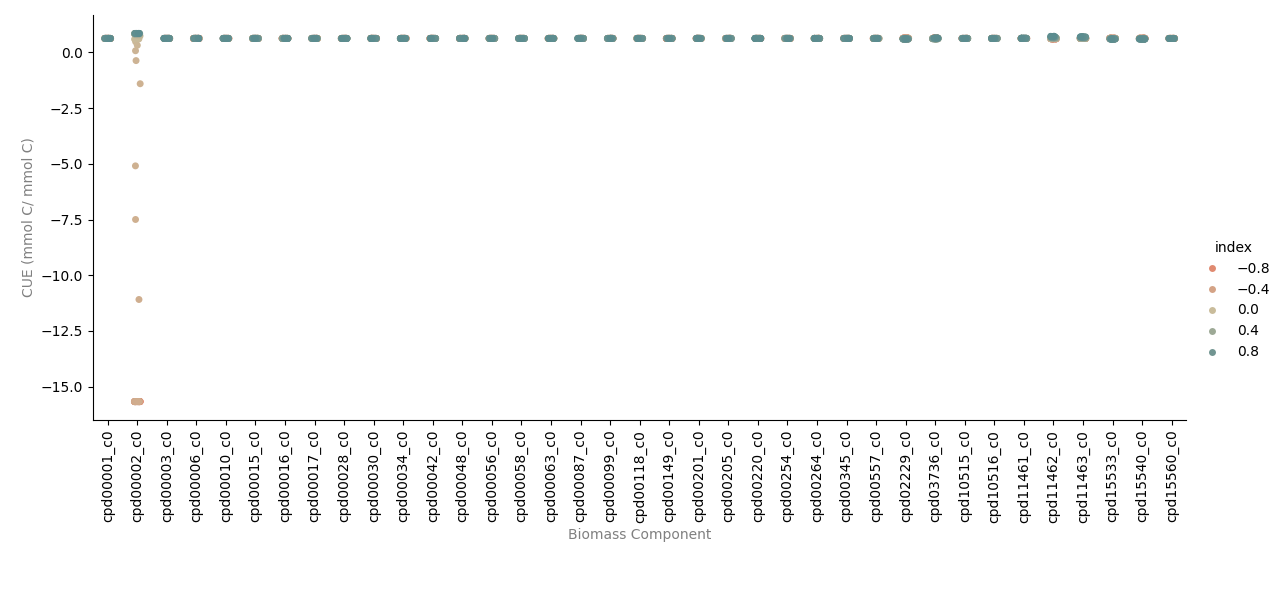
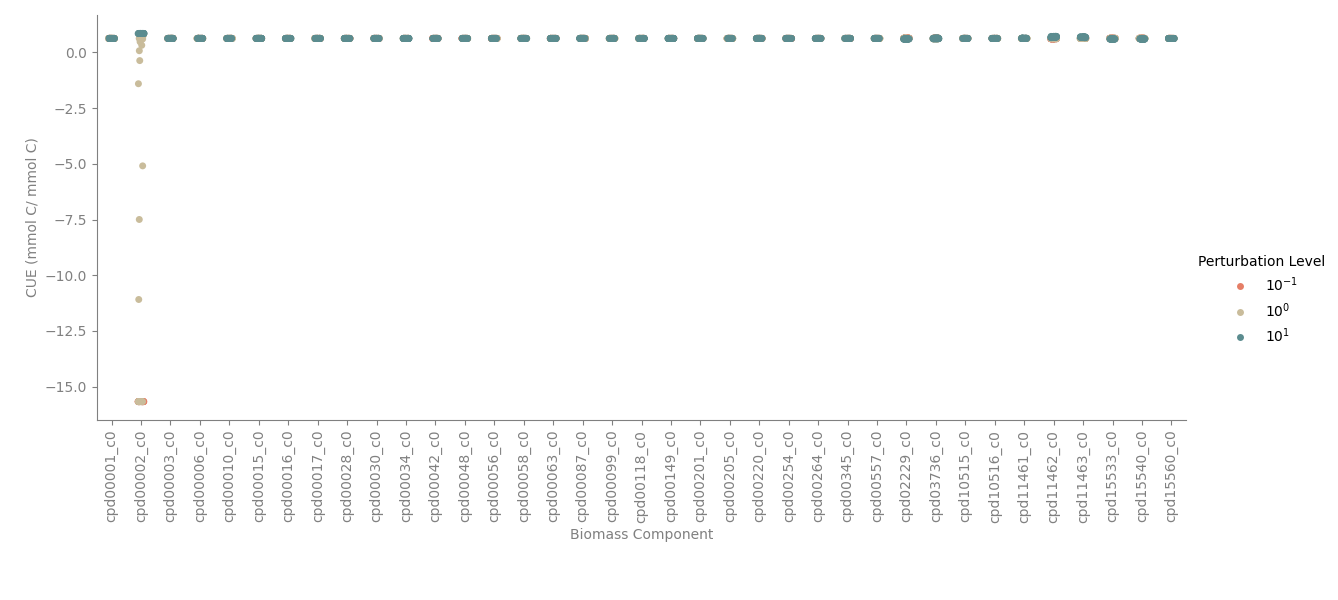
feat: make legend name and labels more helpful

diff --git a/simulations/emp_vs_ed/biomass_composition/plot_results.py b/simulations/emp_vs_ed/biomass_composition/plot_results.py
@@ -13,7 +13,7 @@ OUT_PATH.mkdir(exist_ok=True)
 
 # Import plot_styles.py from the root of the repo
 sys.path.append(str(REPO_ROOT))
-from plot_styles import summer_colors
+from plot_styles import set_plot_style, summer_colors
 
 # Load the results
 df = pd.read_csv(OUT_PATH / "results.csv", header=[0, 1], index_col=0)
@@ -24,8 +24,31 @@ cue_df = df.xs("cue", axis=1, level=1)  # Get just the CUE columns
 # Remove any columns with all NaN values
 cue_df = cue_df.dropna(axis=1, how="all")
 
-# Melt the datafrom into long format for categorical plotting
+# Melt the dataframe into long format for categorical plotting
 cue_df_melted = cue_df.reset_index().melt(id_vars="index", value_name="CUE")
+
+# The `index` column contains log10 perturbation levels (e.g. -1, 0, 1).
+# Create a human-readable, consistent legend label for each level.
+# We'll render them as $10^{n}$ so the meaning is clear (10, 1, 1/10, ...).
+cue_df_melted["log10_pert"] = (
+    pd.to_numeric(cue_df_melted["index"], errors="coerce").round().astype("Int64")
+)
+
+
+def _label_from_n(n):
+    if pd.isna(n):
+        return "NA"
+    n = int(n)
+    return rf"$10^{{{n}}}$"
+
+
+cue_df_melted["perturbation_label"] = cue_df_melted["log10_pert"].apply(_label_from_n)
+
+# Preserve ordering of legend entries by the numeric perturbation value
+unique_ns = sorted(cue_df_melted["log10_pert"].dropna().unique())
+hue_order = [rf"$10^{{{int(n)}}}$" for n in unique_ns]
+
+# Add a new column for the human-friendly version of the perturbation level (index)
 
 # TODO: Sort the biomass components by chemical class? By stoichiometric coefficient?
 
@@ -42,22 +65,35 @@ colors = [(0, low_color), (0.5, mid_color), (1, high_color)]
 custom_cmap = mcolors.LinearSegmentedColormap.from_list("custom_cmap", colors)
 
 # Create the plot
+# Build a categorical palette from the continuous colormap so colors are
+# consistent and ordered according to `hue_order`.
+n_hues = len(hue_order)
+if n_hues > 1:
+    palette_colors = [custom_cmap(i / (n_hues - 1)) for i in range(n_hues)]
+else:
+    palette_colors = [custom_cmap(0.5)]
+
 g = sns.catplot(
     data=cue_df_melted,
     x="component",
     y="CUE",
-    hue="index",
-    palette=custom_cmap,
+    hue="perturbation_label",
+    hue_order=hue_order,
+    palette=palette_colors,
     height=6,
     aspect=2,
     legend_out=True,
 )
+# Change the title of the legend
+g._legend.set_title("Perturbation Level")
+# Change the labels of the legend
+
 # TODO: Make the x-tick labels use the human-friendly names for the metabolites?
 # Turn the x-tick labels
 g.set_xticklabels(rotation=90)
 g.ax.set_xlabel("Biomass Component", color="gray")
 g.ax.set_ylabel("CUE (mmol C/ mmol C)", color="gray")  # TODO: Check the units
-# set_plot_style(g.ax)
+set_plot_style(g.ax)
 
 # Shrink the plot to make room for the x labels
 g.fig.subplots_adjust(bottom=0.3)
